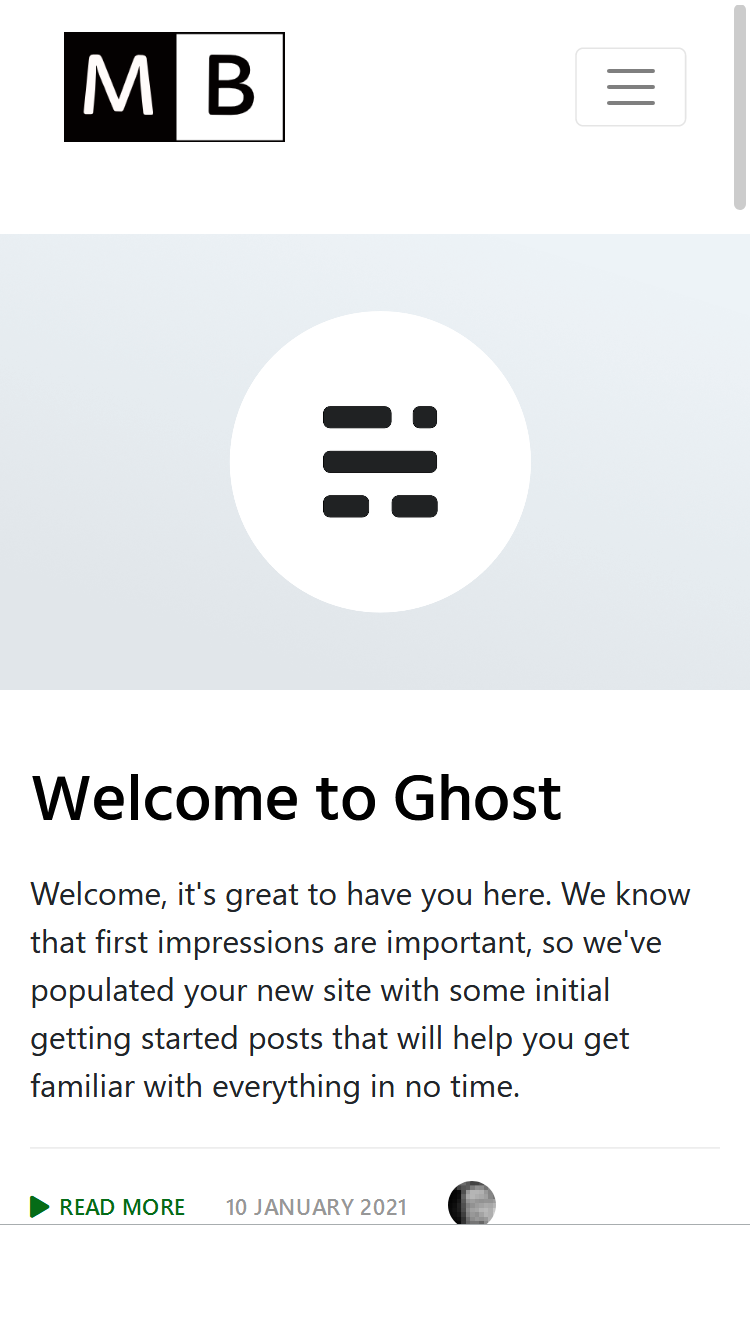
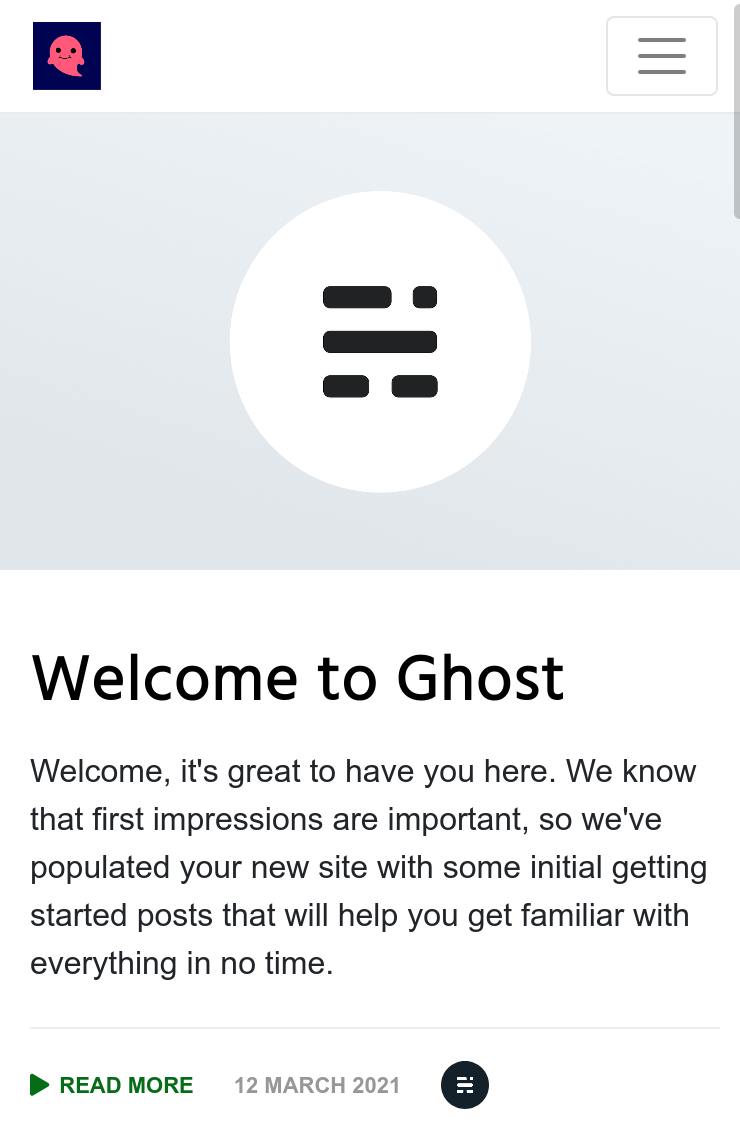
update screenshot mobile

diff --git a/assets/css/style.css b/assets/css/style.css
@@ -156,10 +156,6 @@ p > em > a:hover {
 
 *****************************************/
 
-.main-content {
-  margin-top: 10px;
-}
-
 .max-content-width {
 	max-width: 720px;
 	margin-left: auto;
@@ -345,7 +341,7 @@ img.logo {
   object-fit: cover;
   width: 100vw;
   max-width: 100%;
-  margin-top: 20px;
+
   margin-bottom: 20px;
 }
 
@@ -1192,10 +1188,6 @@ ul {
     font-size: 180% !important;
   }
 
-  .main-content {
-    margin-top: 30px;
-  }
-
   .avatar-page-author {
     margin-top: 10px;
   }
@@ -1249,10 +1241,6 @@ ul {
   .content-images,
   .content-images-individual {
     object-fit: cover;
-  }
-
-  .main-content {
-    margin-top: 30px;
   }
 
   .avatar-page-author {
